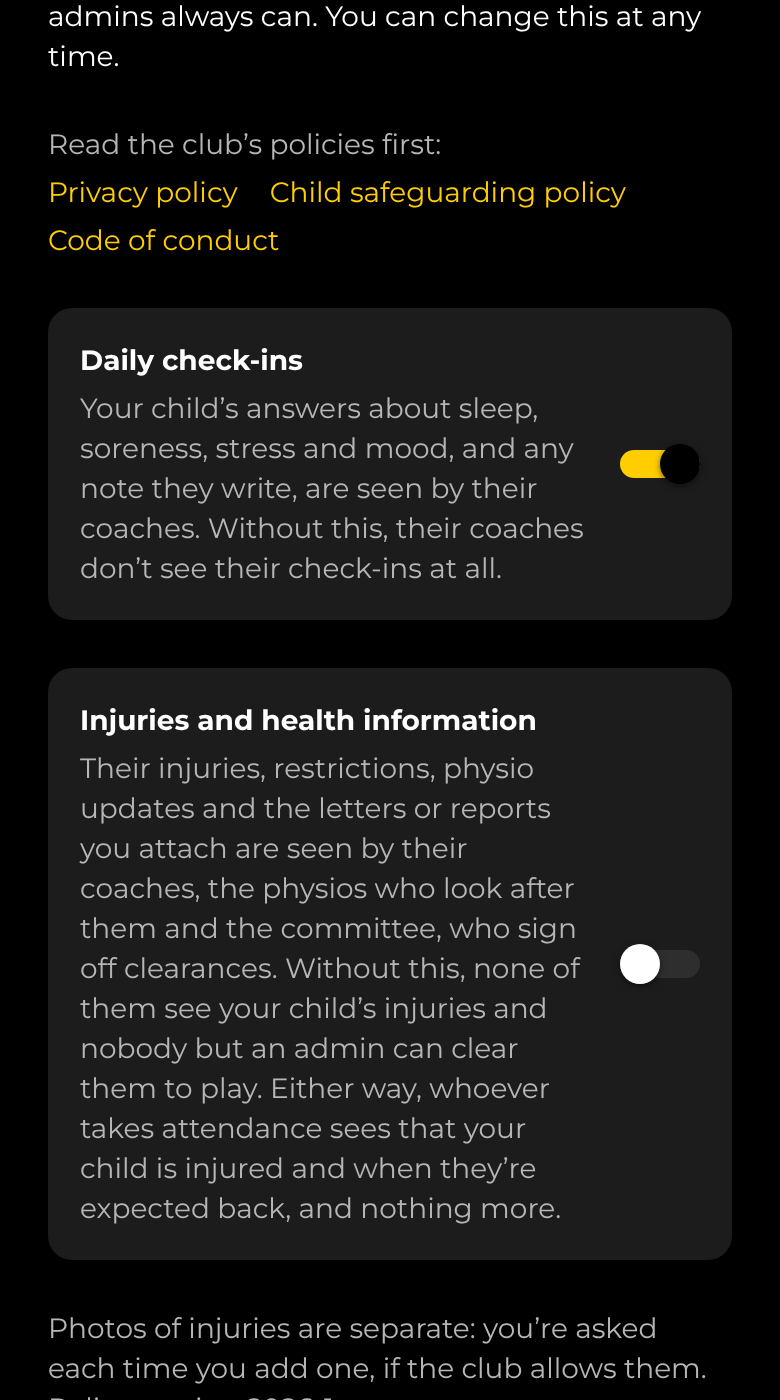
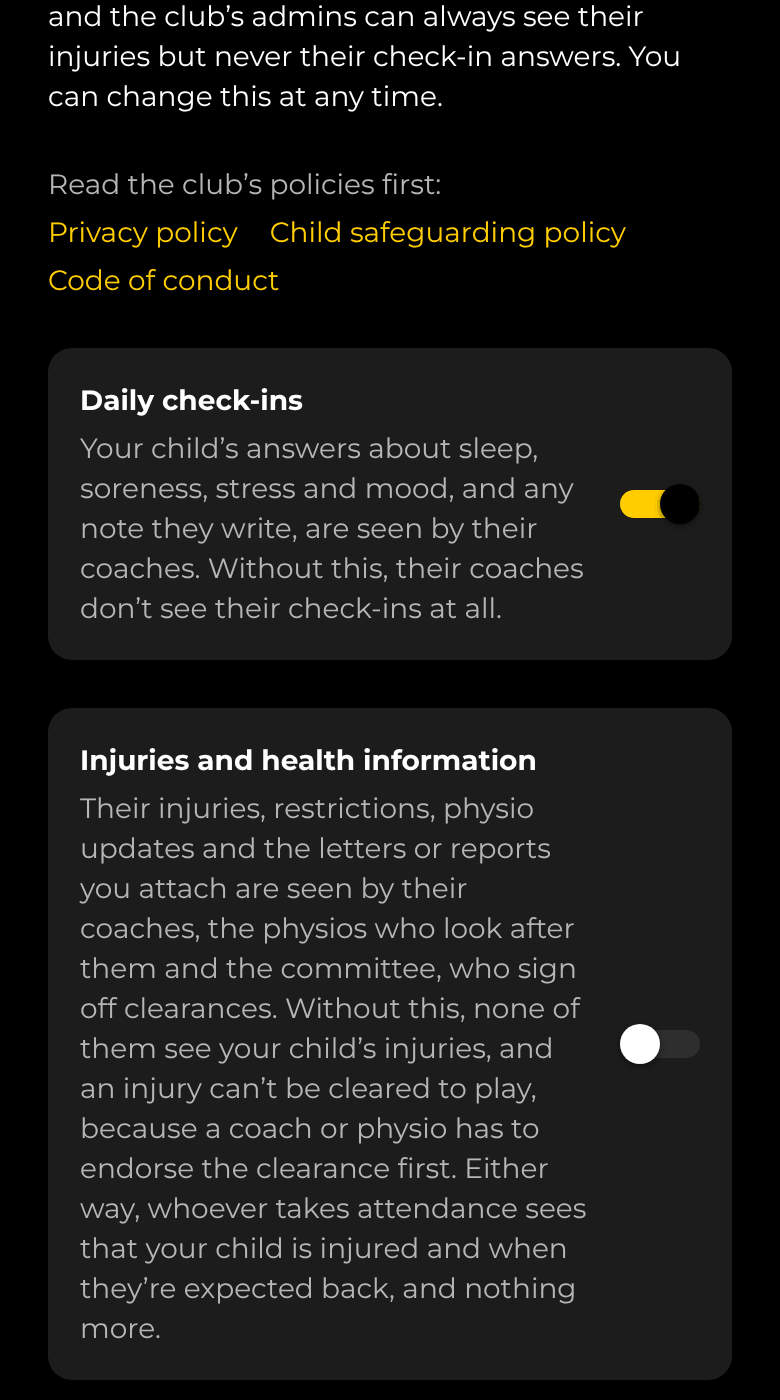
Tell parents what consent really changes for injuries and check-ins
The consent screen said that without health consent "nobody but an admin
can clear" an injury, and that admins can always see a child's
information. The app does neither: endorsing a clearance needs health
consent, so an injury can't be cleared at all until a parent consents,
and admins never see check-in answers. The wording now says so, and the
guide's consent screenshot is re-shot.

Claude-Session: https://claude.ai/code/session_01AMVZfQ2fW5erTCcAVDJSdz

Changed region(s): [[0.0615, 0.0, 0.9538, 1.0], [0.8, 0.3071, 0.8923, 0.3993], [0.8, 0.6757, 0.8615, 0.7679]]

diff --git a/src/lib/consents.ts b/src/lib/consents.ts
@@ -41,7 +41,7 @@ export const consentText: Record<ConsentKind, { title: string; detail: string }>
   health: {
     title: 'Injuries and health information',
     detail:
-      'Their injuries, restrictions, physio updates and the letters or reports you attach are seen by their coaches, the physios who look after them and the committee, who sign off clearances. Without this, none of them see your child’s injuries and nobody but an admin can clear them to play. Either way, whoever takes attendance sees that your child is injured and when they’re expected back, and nothing more.',
+      'Their injuries, restrictions, physio updates and the letters or reports you attach are seen by their coaches, the physios who look after them and the committee, who sign off clearances. Without this, none of them see your child’s injuries, and an injury can’t be cleared to play, because a coach or physio has to endorse the clearance first. Either way, whoever takes attendance sees that your child is injured and when they’re expected back, and nothing more.',
   },
 };
 

diff --git a/src/app/consent/[id].tsx b/src/app/consent/[id].tsx
@@ -86,7 +86,8 @@ export default function ConsentScreen() {
       <Stack.Screen options={{ title: `Consent for ${name}` }} />
       <ThemedText type="small">
         The club keeps information about {name} so they can train and play safely. Choose who else
-        can see it. {name}, you and the club’s admins always can. You can change this at any time.
+        can see it. {name} and you always can, and the club’s admins can always see their injuries but
+        never their check-in answers. You can change this at any time.
       </ThemedText>
       <PolicyLinks intro="Read the club’s policies first:" />
       {!child.can_consent ? (
